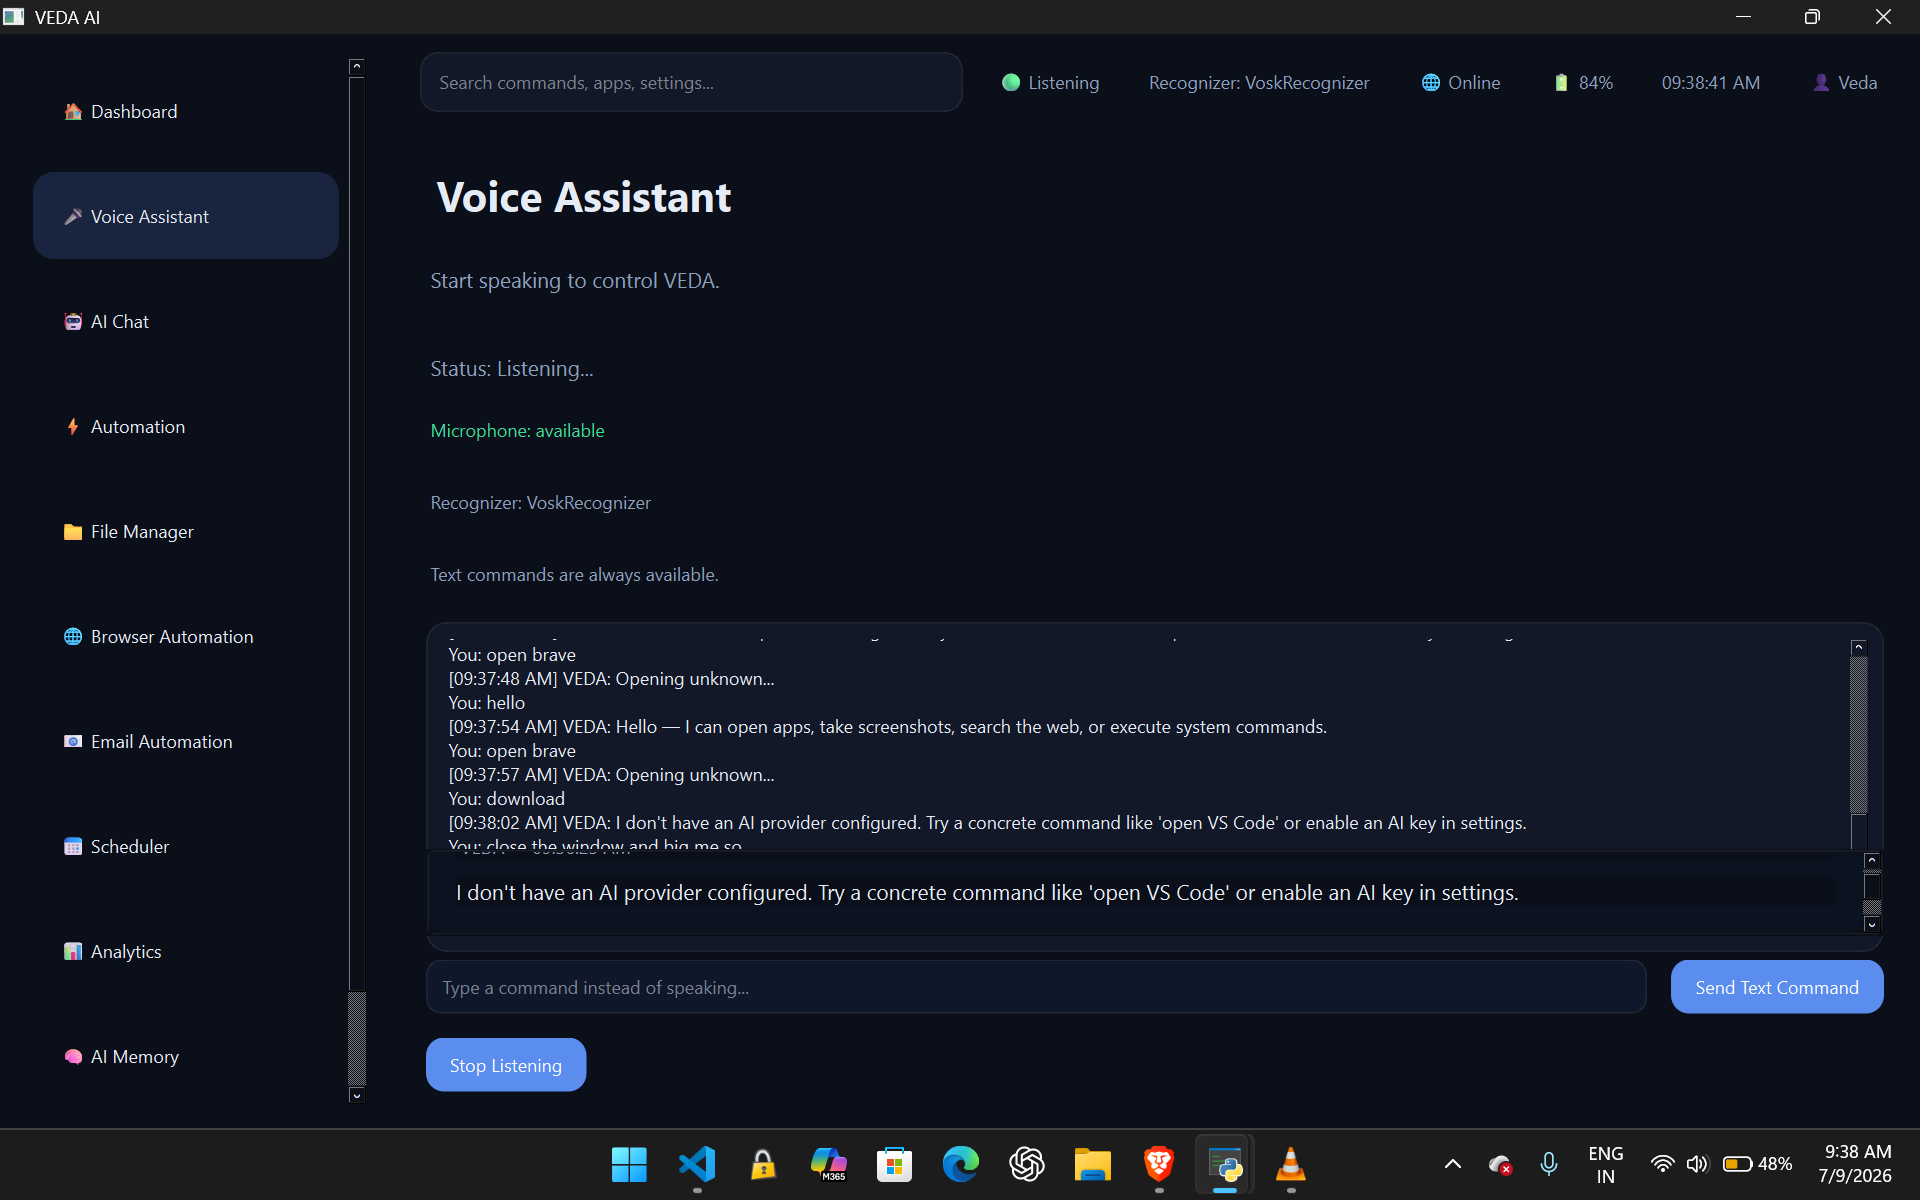
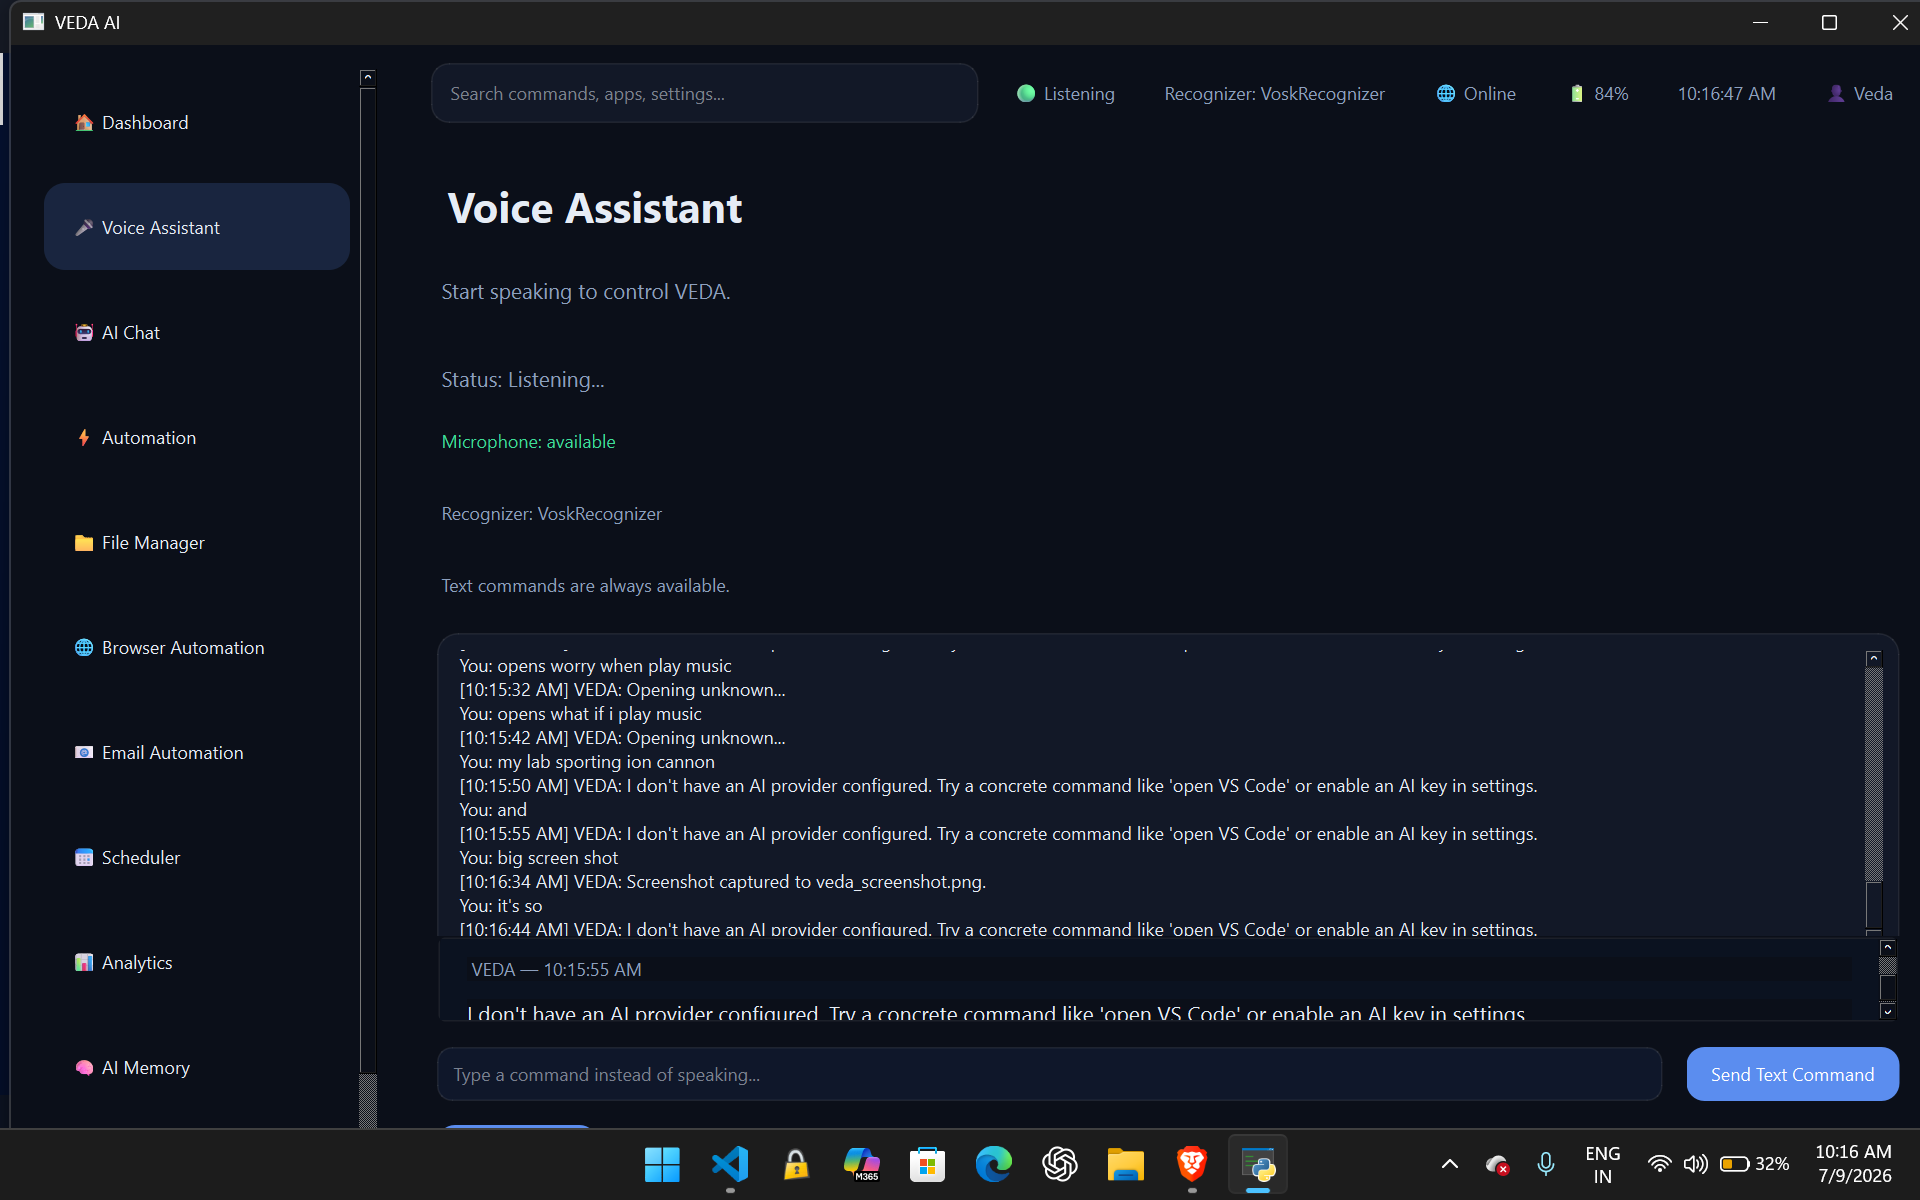
fix(speech): serialize pyttsx3 calls in SpeechEngine to prevent concurrent runAndWait errors

diff --git a/src/veda_ai/automation/controller.py b/src/veda_ai/automation/controller.py
@@ -1,6 +1,8 @@
 from __future__ import annotations
 
 import logging
+import os
+import subprocess
 import time
 import webbrowser
 from urllib.parse import quote_plus
@@ -21,22 +23,91 @@ class AutomationController:
     def open_application(self, command: str) -> None:
         logger.info("Requested automation open application: %s", command)
         normalized = command.lower()
-        if "chrome" in normalized or "browser" in normalized:
-            webbrowser.open("https://www.google.com")
-        elif "vscode" in normalized or "code" in normalized:
+
+        if any(keyword in normalized for keyword in ("brave", "edge", "chrome", "firefox", "browser", "internet")):
+            self._open_browser(normalized)
+        elif any(keyword in normalized for keyword in ("vscode", "visual studio code", "code editor", "code")):
+            self._open_vscode()
+        elif any(keyword in normalized for keyword in ("notepad", "text editor", "editor")):
+            self._open_notepad()
+        elif any(keyword in normalized for keyword in ("calculator", "calc", "calculate")):
+            self._open_calculator()
+        elif any(keyword in normalized for keyword in ("file explorer", "explorer", "files", "file manager")):
+            self._open_explorer()
+        elif "spotify" in normalized:
+            self._open_spotify()
+        else:
+            logger.warning("No automation rule for application command: %s", command)
+
+    def _open_browser(self, normalized: str) -> None:
+        logger.info("Opening browser for command: %s", normalized)
+        if "brave" in normalized:
+            try:
+                subprocess.Popen(["brave"])
+                return
+            except Exception:
+                pass
+        if "edge" in normalized or "microsoft edge" in normalized:
+            try:
+                subprocess.Popen(["msedge"])
+                return
+            except Exception:
+                pass
+        if "firefox" in normalized:
+            try:
+                subprocess.Popen(["firefox"])
+                return
+            except Exception:
+                pass
+        if "chrome" in normalized or "google chrome" in normalized:
+            try:
+                subprocess.Popen(["chrome"])
+                return
+            except Exception:
+                pass
+        webbrowser.open("https://www.google.com")
+
+    def _open_vscode(self) -> None:
+        try:
+            subprocess.Popen(["code"])
+        except Exception:
             pyautogui.hotkey("win", "r")
             time.sleep(0.25)
             pyautogui.write("code\n")
-        elif "notepad" in normalized:
+
+    def _open_notepad(self) -> None:
+        try:
+            subprocess.Popen(["notepad.exe"])
+        except Exception:
             pyautogui.hotkey("win", "r")
             time.sleep(0.25)
             pyautogui.write("notepad\n")
-        elif "calculator" in normalized or "calc" in normalized:
+
+    def _open_calculator(self) -> None:
+        try:
+            subprocess.Popen(["calc.exe"])
+        except Exception:
             pyautogui.hotkey("win", "r")
             time.sleep(0.25)
             pyautogui.write("calc\n")
-        else:
-            logger.warning("No automation rule for application command: %s", command)
+
+    def _open_explorer(self) -> None:
+        try:
+            os.startfile("explorer")
+        except Exception:
+            try:
+                subprocess.Popen(["explorer"])
+            except Exception:
+                webbrowser.open("file:///C:/")
+
+    def _open_spotify(self) -> None:
+        try:
+            subprocess.Popen(["spotify"])
+        except Exception:
+            try:
+                subprocess.Popen(["spotify.exe"])
+            except Exception:
+                webbrowser.open("https://open.spotify.com")
 
     def search_web(self, query: str) -> None:
         url = f"https://www.google.com/search?q={quote_plus(query)}"

diff --git a/tests/test_automation_controller.py b/tests/test_automation_controller.py
@@ -1,0 +1,44 @@
+from unittest.mock import Mock, patch
+
+from src.veda_ai.automation.controller import AutomationController
+
+
+def test_open_browser_opens_default_search_when_binary_missing(monkeypatch):
+    automation = AutomationController()
+    with patch("src.veda_ai.automation.controller.subprocess.Popen", side_effect=Exception("missing")):
+        with patch("src.veda_ai.automation.controller.webbrowser.open") as mock_open:
+            automation.open_application("open chrome")
+            mock_open.assert_called_once_with("https://www.google.com")
+
+
+def test_open_browser_tries_brave_before_default(monkeypatch):
+    automation = AutomationController()
+    mock_popen = Mock()
+    with patch("src.veda_ai.automation.controller.subprocess.Popen", mock_popen):
+        automation.open_application("open brave")
+        mock_popen.assert_called_once_with(["brave"])
+
+
+def test_open_edge_uses_msedge(monkeypatch):
+    automation = AutomationController()
+    mock_popen = Mock()
+    with patch("src.veda_ai.automation.controller.subprocess.Popen", mock_popen):
+        automation.open_application("open edge")
+        mock_popen.assert_called_once_with(["msedge"])
+
+
+def test_open_spotify_uses_spotify_executable_or_web(monkeypatch):
+    automation = AutomationController()
+    mock_popen = Mock(side_effect=[Exception("fail"), Exception("fail")])
+    with patch("src.veda_ai.automation.controller.subprocess.Popen", mock_popen):
+        with patch("src.veda_ai.automation.controller.webbrowser.open") as mock_open:
+            automation.open_application("open spotify")
+            mock_open.assert_called_once_with("https://open.spotify.com")
+
+
+def test_open_explorer_falls_back_to_explorer(monkeypatch):
+    automation = AutomationController()
+    with patch("src.veda_ai.automation.controller.os.startfile", side_effect=Exception("fail")):
+        with patch("src.veda_ai.automation.controller.subprocess.Popen") as mock_popen:
+            automation.open_application("open explorer")
+            mock_popen.assert_called_once_with(["explorer"])

diff --git a/src/veda_ai/core/command_engine.py b/src/veda_ai/core/command_engine.py
@@ -16,20 +16,21 @@ class CommandEngine:
 
     def __init__(self) -> None:
         self._patterns: Dict[str, List[str]] = {
-            "open_app": ["open", "launch"],
-            "screenshot": ["screenshot", "capture screen"],
-            "shutdown": ["shutdown", "turn off"],
-            "restart": ["restart", "reboot"],
+            "open_app": ["open", "launch", "start", "run"],
+            "screenshot": ["screenshot", "screen shot", "capture screen", "take a screenshot"],
+            "shutdown": ["shutdown", "turn off", "power off", "shut down"],
+            "restart": ["restart", "reboot", "reload"],
             "lock": ["lock"],
-            "sleep": ["sleep", "hibernate"],
-            "search": ["search", "look up", "find"],
+            "sleep": ["sleep", "hibernate", "standby", "put to sleep", "go to sleep"],
+            "search": ["search", "look up", "find", "google"],
         }
         self._targets = {
-            "vscode": ["vscode", "visual studio code", "code"],
-            "chrome": ["chrome", "google chrome", "browser"],
-            "calculator": ["calculator", "calc"],
-            "notepad": ["notepad", "text editor"],
+            "vscode": ["vscode", "visual studio code", "code editor", "code"],
+            "browser": ["browser", "chrome", "google chrome", "brave", "firefox", "edge", "internet"],
+            "calculator": ["calculator", "calc", "calculate"],
+            "notepad": ["notepad", "text editor", "editor"],
             "spotify": ["spotify"],
+            "explorer": ["file explorer", "explorer", "files", "file manager"],
         }
 
     def classify(self, text: str) -> Intent:
@@ -37,13 +38,21 @@ class CommandEngine:
         if not normalized:
             return Intent(intent="unknown")
 
-        for intent, keywords in self._patterns.items():
+        # Match more specific non-open intents first to avoid accidental open_app matches.
+        intent_priority = ["shutdown", "restart", "lock", "sleep", "search", "screenshot", "open_app"]
+        for intent in intent_priority:
+            keywords = self._patterns.get(intent, [])
             if any(keyword in normalized for keyword in keywords):
                 if intent == "open_app":
-                    for target, aliases in self._targets.items():
-                        if any(alias in normalized for alias in aliases):
-                            return Intent(intent=intent, target=target, confidence=0.95)
-                    return Intent(intent=intent, target="unknown", confidence=0.8)
+                    target = self._extract_target(normalized)
+                    return Intent(intent=intent, target=target, confidence=0.95 if target != "unknown" else 0.75)
                 return Intent(intent=intent, confidence=0.9)
 
         return Intent(intent="unknown")
+
+    def _extract_target(self, normalized: str) -> str:
+        for target, aliases in self._targets.items():
+            for alias in aliases:
+                if alias in normalized:
+                    return target
+        return "unknown"

diff --git a/src/veda_ai/voice/speech_engine.py b/src/veda_ai/voice/speech_engine.py
@@ -1,6 +1,7 @@
 from __future__ import annotations
 
 import logging
+import threading
 import pyttsx3
 
 from .typing import VoiceState
@@ -10,19 +11,32 @@ logger = logging.getLogger(__name__)
 
 
 class SpeechEngine:
-    """Simple TTS engine wrapper for VEDA AI."""
+    """Simple TTS engine wrapper for VEDA AI.
+
+    This class serializes speech requests with a lock so that
+    `pyttsx3.Engine.runAndWait()` is not invoked concurrently from
+    multiple threads which causes runtime errors.
+    """
 
     def __init__(self) -> None:
         self.engine = pyttsx3.init()
         self.state = VoiceState.STOPPED
+        self._lock = threading.Lock()
 
     def speak(self, text: str) -> None:
         logger.debug("Speaking text: %s", text)
-        self.state = VoiceState.SPEAKING
-        self.engine.say(text)
-        self.engine.runAndWait()
-        self.state = VoiceState.STOPPED
+        # Serialize TTS calls to avoid pyttsx3 run-loop conflicts
+        with self._lock:
+            try:
+                self.state = VoiceState.SPEAKING
+                self.engine.say(text)
+                self.engine.runAndWait()
+            finally:
+                self.state = VoiceState.STOPPED
 
     def stop(self) -> None:
-        self.engine.stop()
-        self.state = VoiceState.STOPPED
+        try:
+            with self._lock:
+                self.engine.stop()
+        finally:
+            self.state = VoiceState.STOPPED